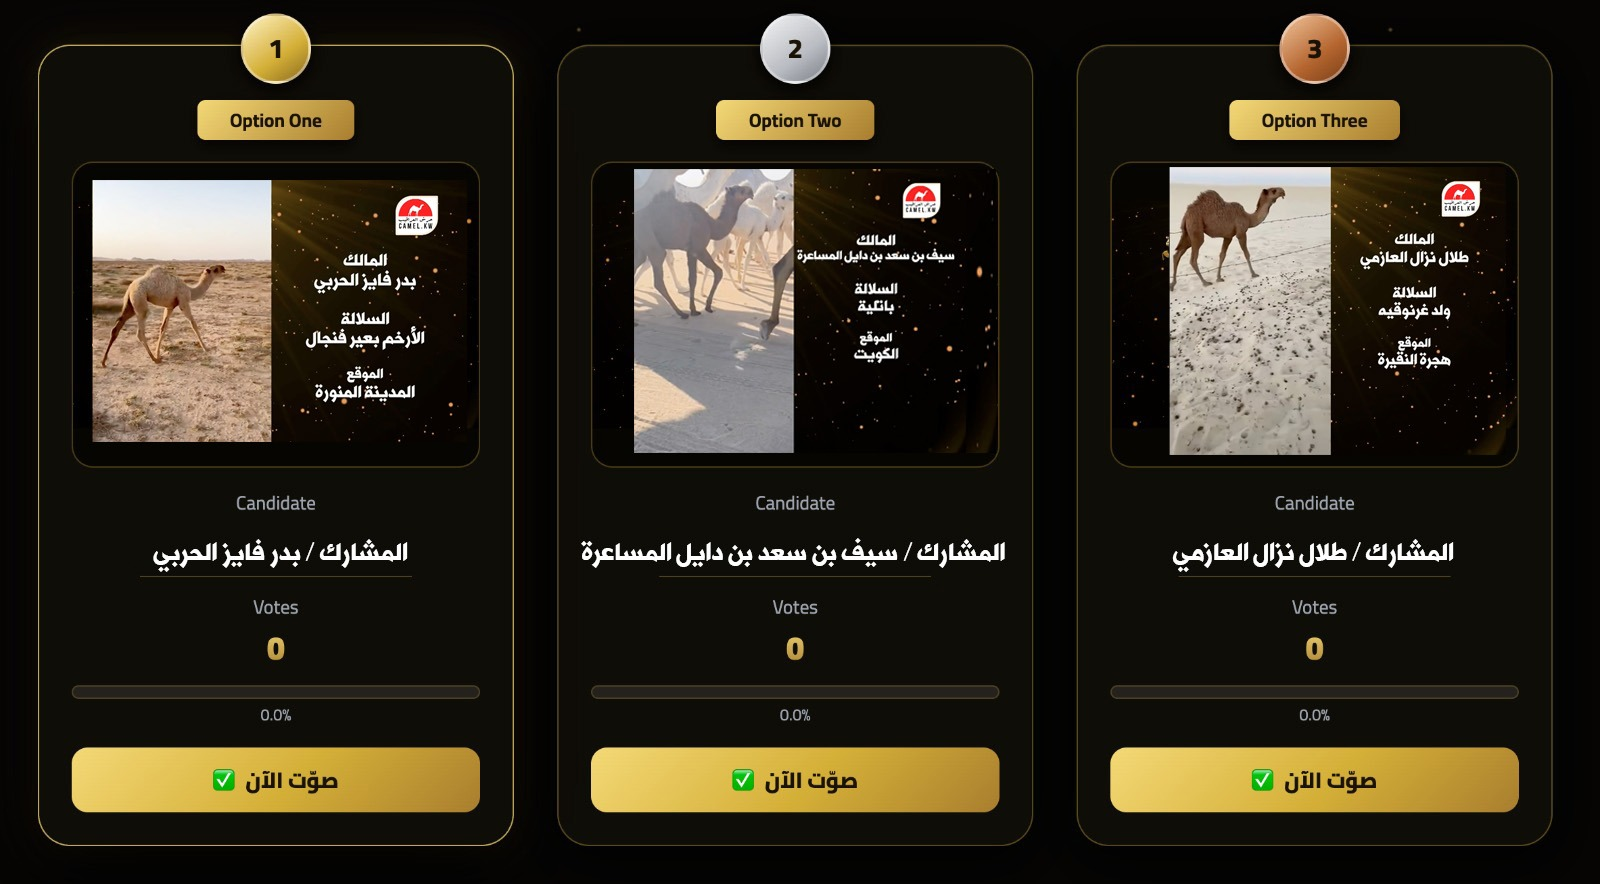
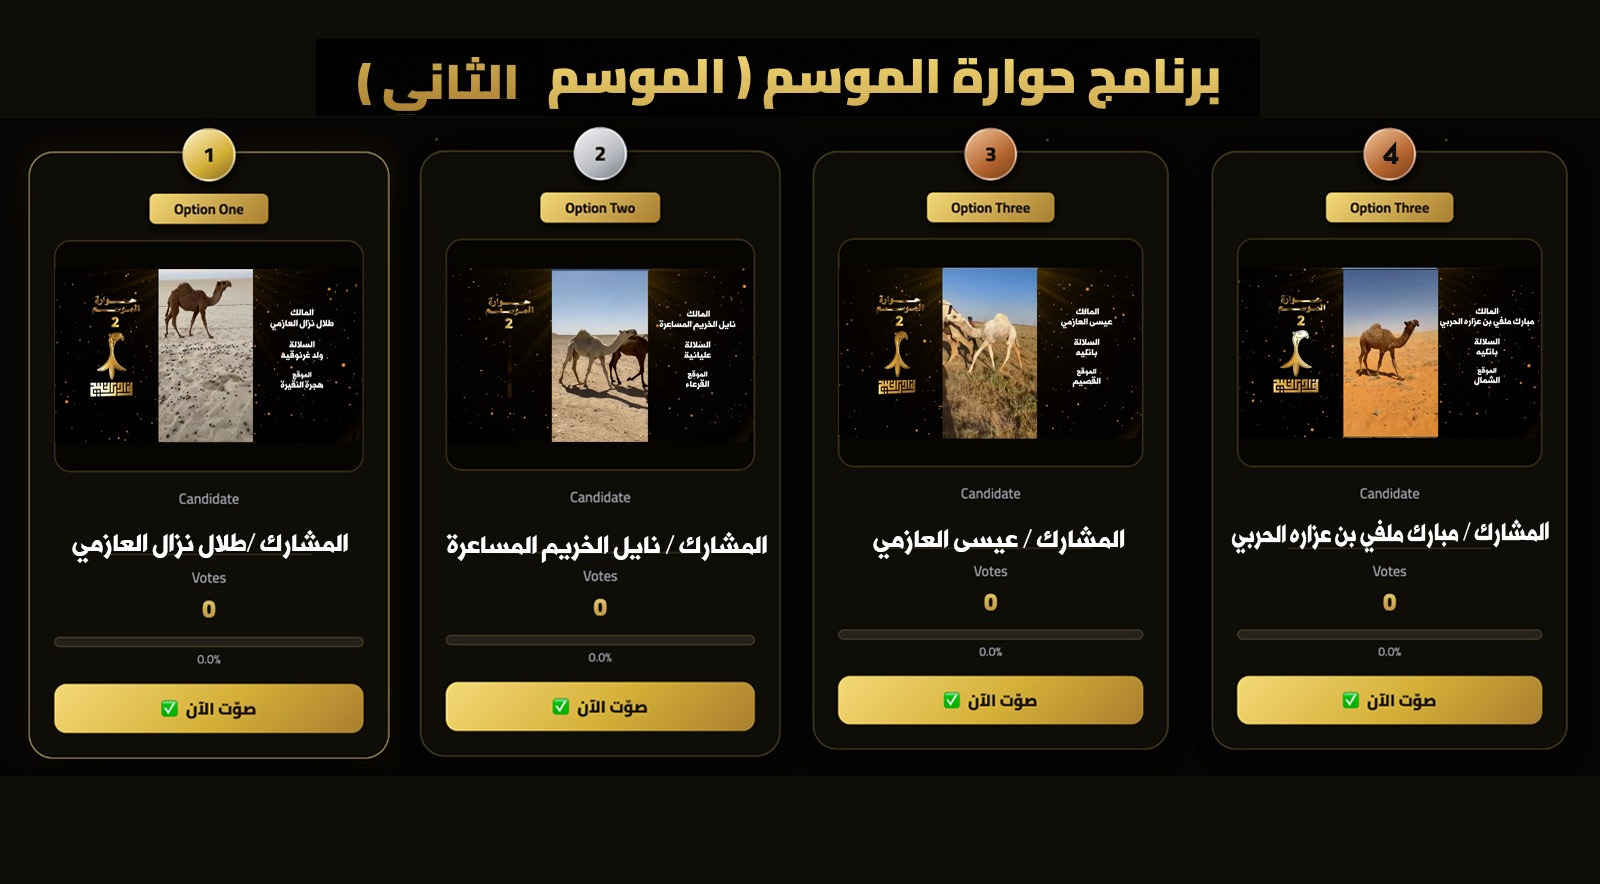
s4 commmit

diff --git a/script.js b/script.js
@@ -15,12 +15,12 @@ const statusBanner = document.getElementById('statusBanner');
    1. INITIAL RENDER (static shell, before first live fetch)
    --------------------------------------------------------- */
 function buildCardHTML(candidate, rankIndex) {
-  const rankClasses = ['rank-gold', 'rank-silver', 'rank-bronze'];
-  const rankNumbers = ['1', '2', '3'];
+  const rankClasses = ['rank-gold', 'rank-silver', 'rank-bronze', 'rank-bronze'];
+  const rankNumbers = ['1', '2', '3', '4'];
   const rankClass = rankClasses[rankIndex] ?? 'rank-bronze';
 
   return `
-    <div class="candidate-card fade-in-up glass-card rounded-3xl p-6 pt-10 relative flex flex-col items-center text-center"
+    <div class="candidate-card h-full fade-in-up glass-card rounded-3xl p-6 pt-10 relative flex flex-col items-center text-center"
          style="animation-delay:${rankIndex * 0.12}s"
          data-id="${candidate.id}">
 
@@ -28,32 +28,34 @@ function buildCardHTML(candidate, rankIndex) {
         ${rankNumbers[rankIndex] ?? rankIndex + 1}
       </div>
 
-      <span class="ribbon mb-4 text-sm" data-role="ribbon">Option ${['One', 'Two', 'Three'][rankIndex] ?? rankIndex + 1}</span>
+      <span class="ribbon mb-4 text-sm" data-role="ribbon">Option ${['One', 'Two', 'Three', 'Four'][rankIndex] ?? rankIndex + 1}</span>
 
-      <div class="w-full aspect-[4/3] rounded-2xl overflow-hidden border border-[rgba(212,175,55,0.3)] mb-4 bg-black/40 flex items-center justify-center">
-        <img src="${candidate.image}" alt="${candidate.name}" class="w-full h-full object-contain">
+      <div class="w-full rounded-2xl overflow-hidden border border-[rgba(212,175,55,0.3)] mb-4 bg-black/40 flex items-center justify-center">
+        <img src="${candidate.image}" alt="${candidate.name}" class="w-full h-auto object-cover">
       </div>
 
       <p class="text-gray-400 text-sm mb-1">Candidate</p>
       <h3 class="text-lg font-bold mb-3">${candidate.name}</h3>
 
-      <div class="w-2/3 h-px bg-[rgba(212,175,55,0.3)] mb-3"></div>
+      <div class="mt-auto w-full flex flex-col items-center">
+        <div class="w-2/3 h-px bg-[rgba(212,175,55,0.3)] mb-3"></div>
 
-      <p class="text-gray-400 text-sm mb-1">Votes</p>
-      <p class="text-2xl font-black gold-text mb-3">
-        <span data-role="votes">0</span>
-      </p>
+        <p class="text-gray-400 text-sm mb-1">Votes</p>
+        <p class="text-2xl font-black gold-text mb-3">
+          <span data-role="votes">0</span>
+        </p>
 
-      <div class="progress-track mb-1">
-        <div class="progress-fill" data-role="progress" style="width:0%"></div>
+        <div class="progress-track mb-1">
+          <div class="progress-fill" data-role="progress" style="width:0%"></div>
+        </div>
+        <p class="text-xs text-gray-400 mb-4"><span data-role="percentage">0</span>%</p>
+
+        <button data-role="vote-btn"
+                class="vote-btn w-full py-3 rounded-xl flex items-center justify-center gap-2"
+                onclick="handleVoteClick(event, '${candidate.id}', '${candidate.name.replace(/'/g, "\\'")}')">
+          <span>✅</span> صوّت الآن
+        </button>
       </div>
-      <p class="text-xs text-gray-400 mb-4"><span data-role="percentage">0</span>%</p>
-
-      <button data-role="vote-btn"
-              class="vote-btn w-full py-3 rounded-xl flex items-center justify-center gap-2"
-              onclick="handleVoteClick(event, '${candidate.id}', '${candidate.name.replace(/'/g, "\\'")}')">
-        <span>✅</span> صوّت الآن
-      </button>
     </div>
   `;
 }
@@ -205,7 +207,7 @@ function getDeviceId() {
    5. VOTING
    --------------------------------------------------------- */
 function localVoteKey() {
-  return `voted_statusseason3`;
+  return `voted_statusseason4`;
 }
 
 function checkLocalVoteFlag() {

diff --git a/config.js b/config.js
@@ -35,18 +35,23 @@ const CONFIG = {
   CANDIDATES: [
     {
       id: "CS1",
-      name: "  المشارك / طلال نزال العازمي ",
+      name: "  المشارك / طلال نزال العازمي",
       image: "allimg/1.jpeg"
     },
     {
       id: "CS2",
-      name: "المشارك / سيف بن سعد بن دايل المساعرة",
+      name: "المشارك / عيسى العازمي",
       image: "allimg/2.jpeg"
     },
     {
       id: "CS3",
-      name: "المشارك / بدر فايز الحربي ",
+      name: "المشارك / مبارك ملفي بن عزازة الحربي ",
       image: "allimg/3.jpeg"
+    },
+    {
+      id: "CS4",
+      name: "المشارك / نايل الخريم المساعرة ",
+      image: "allimg/4.jpeg"
     }
   ],
 

diff --git a/index.html b/index.html
@@ -134,7 +134,7 @@
 
     <p id="statusBanner" class="hidden text-center mb-8 py-3 px-4 rounded-xl border text-sm font-semibold"></p>
 
-    <div id="candidatesGrid" class="grid grid-cols-1 md:grid-cols-3 gap-8">
+    <div id="candidatesGrid" class="grid grid-cols-1 md:grid-cols-4 gap-8">
       <!-- Candidate cards injected by script.js -->
     </div>
 
